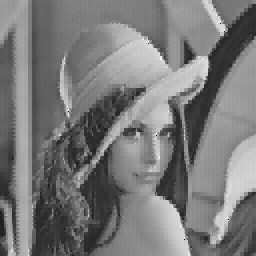
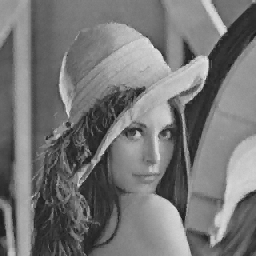
fixed a typo in fpimage.py, major improvement in software-encoded image quality
git-svn-id: http://bat-country.us/svn/caltech/cs81/Fracture@101 caa6fe2b-acd4-4b7c-8125-26c041977fbc

diff --git a/test/fpimage.py b/test/fpimage.py
@@ -5,6 +5,7 @@ import struct
 import sys
 import os
 import re
+import glob
 
 import numpy
 import Image
@@ -128,7 +129,7 @@ def avgReduce(A, times):
     
     return R
 
-def calcS(n, sum_D, sum_D2, sum_r, sum_rD):
+def calcSO(n, sum_D, sum_D2, sum_r, sum_r2, sum_rD):
     S_lo = n * sum_D2 + sum_D * sum_D
     # TODO: if abs(s_lo) is close to zero, special handling
     # see: Fisher, p. 21
@@ -136,70 +137,50 @@ def calcS(n, sum_D, sum_D2, sum_r, sum_rD):
     S = S_hi / S_lo
     # old 'cap' mode
     S = numpy.clip(S, -1 + 1E-4, 1 - 1E-4)
-    return S
-
-def calcO(n, sum_D, sum_r, S):
-    return (sum_r - S * sum_D) / n
-
-def calcMSE(n, sum_D, sum_D2, sum_r, sum_r2, sum_rD, S, O):
+    
+    O = (sum_r - S * sum_D) / n
+    
     SE = S * (S * sum_D2 + 2 * (O * sum_D - sum_rD)) \
         + O * (n * O - 2 * sum_r) \
         + sum_r2
-    return SE / n
-
-def calcMSEAlt(n, sum_D, sum_D2, sum_r, sum_r2, sum_rD, S, O):
-    # rearrange for speed
-    # see: Fisher, p. 21
-    SE = sum_r2 \
-        + S * S * sum_D2 \
-        + 2 * O * S * sum_D \
-        - 2 * S * sum_rD \
-        - 2 * O * sum_r \
-        + n * O * O
-    return SE / n
-
-def calcMSEAltSlow(r_size, n, r_tiled, D, S, O):
-    S_stretch = S.repeat(r_size, 0).repeat(r_size, 1)
-    O_stretch = O.repeat(r_size, 0).repeat(r_size, 1)
-    err = r_tiled - (S_stretch * D + O_stretch)
-    return avgReduce(err * err, log2int(r_size))
-
-def searchReduceCore(P1, P2):
-    R1 = numpy.empty((P1.shape[0] >> 1, P1.shape[1] >> 1, 3), numpy.dtype('f'))
-    R2 = numpy.empty((P2.shape[0] >> 1, P2.shape[1] >> 1, 3), numpy.dtype('f'))
+    MSE = SE / n
     
-    for j in xrange(R1.shape[0]):
-        for i in xrange(R1.shape[1]):
-            err,  s,  o  = P1[(j << 1),     (i << 1)]
-            _,    x,  y  = P2[(j << 1),     (i << 1)]
-            
-            err2, s2, o2 = P1[(j << 1) + 1, (i << 1)]
-            _,    x2, y2 = P2[(j << 1) + 1, (i << 1)]
-            if err2 < err:
-                err, s, o = (err2, s2, o2)
-                _,   x, y = (err2, x2, y2)
-            
-            err2, s2, o2 = P1[(j << 1),     (i << 1) + 1]
-            _,    x2, y2 = P2[(j << 1),     (i << 1) + 1]
-            if err2 < err:
-                err, s, o = (err2, s2, o2)
-                _,   x, y = (err2, x2, y2)
-            
-            err2, s2, o2 = P1[(j << 1) + 1, (i << 1) + 1]
-            _,    x2, y2 = P2[(j << 1) + 1, (i << 1) + 1]
-            if err2 < err:
-                err, s, o = (err2, s2, o2)
-                _,   x, y = (err2, x2, y2)
-            
-            R1[j, i] = (err2, s, o)
-            R2[j, i] = (err2, x, y)
-    
-    return (R1, R2)
+    return numpy.dstack((MSE, S, O))
 
-def searchReduce(P1, P2, times):
+def searchReduceCore(P):
+    R = numpy.empty((P.shape[0] >> 1, P.shape[1] >> 1, 5), numpy.dtype('f'))
+    
+    for j in xrange(R.shape[0]):
+        for i in xrange(R.shape[1]):
+            p  = P[(j << 1),     (i << 1)]
+            err = p[0]
+            
+            p2 = P[(j << 1) + 1, (i << 1)]
+            err2 = p2[0]
+            if err2 < err:
+                p = p2
+                err = err2
+            
+            p2 = P[(j << 1),     (i << 1) + 1]
+            err2 = p2[0]
+            if err2 < err:
+                p = p2
+                err = err2
+            
+            p2 = P[(j << 1) + 1, (i << 1) + 1]
+            err2 = p2[0]
+            if err2 < err:
+                p = p2
+                err = err2
+            
+            R[j, i] = p
+    
+    return R
+
+def searchReduce(P, times):
     for t in xrange(times):
-        P1, P2 = searchReduceCore(P1, P2)
-    return (P1, P2)
+        P = searchReduceCore(P)
+    return P
 
 def window(A, c, d):
     a = A.min()
@@ -237,15 +218,11 @@ def encode(filename, d_size, r_size):
             r_tiled = numpy.tile(r, (D.shape[0] / r_size, D.shape[1] / r_size))
             sum_rD = sumReduce(r_tiled * D, log2int(r_size))
             
-            S = calcS(n, sum_D, sum_D2, sum_R[j, i], sum_rD)
-            O = calcO(n, sum_D, sum_R[j, i], S)
-            MSE = calcMSE(n, sum_D, sum_D2, sum_R[j, i], sum_R2[j, i], sum_rD, S, O)
+            P_nocoords = calcSO(n, sum_D, sum_D2, sum_R[j, i], sum_R2[j, i], sum_rD)
             
-            P1 = numpy.dstack((MSE, S, O))
-            P2 = numpy.dstack((MSE, I, J))
-            P1, P2 = searchReduce(P1, P2, log2int(sum_D.shape[0]))
-            err, s, o = P1[0, 0]
-            _,   x, y = P2[0, 0]
+            P = numpy.dstack((P_nocoords, I, J))
+            P = searchReduce(P, log2int(sum_D.shape[0]))
+            err, s, o, x, y = P[0, 0]
             x = int(x)
             y = int(y)
             rs = [i * r_size, (i + 1) * r_size,
@@ -315,13 +292,33 @@ def decode(outputBasename, (orig_w, orig_h, d_size, r_size, transforms)):
         print "avg =", numpy.mean(R)
         writePILImage("%s_%02d.png" % (outputBasename, t), R)
         print
+    
+    #R = window(R, 0, 1)
+    #writePILImage("%s_enhanced.png" % outputBasename, R)
 
 def main():
-    #transformList = encode('../data/lena.png', 8, 4)
-    #saveTransformList('../build/Python-lena.trn', transformList)
-    transformList = loadTransformList('../data/Python-lena.trn')
+    transformList = encode('../data/lena.png', 8, 4)
+    saveTransformList('../build/Python-lena.trn', transformList)
+    #transformList = loadTransformList('../data/Python-lena.trn')
     decode('../build/Python-lena-out', transformList)
-    #transformList = loadTransformList('../data/OpenGL-lena.trn')
+    #transformList = loadTransformList('../build/OpenGL-lena.trn')
     #decode('../build/OpenGL-enc-Python-dec-lena-out', transformList)
+
+def checkCandidates():
+    
+    def toRecord(a):
+        MSE, s, o, packedOrigin = a
+        d_i = int(packedOrigin / 4096) / 2
+        d_j = int(packedOrigin % 4096) / 2
+        return MSE, s, o, d_i, d_j
+    
+    for filePath in glob.iglob('../build/candidates/*.fl32'):
+        r_i, r_j = [int(r) for r in re.search(r'\[(\d+), (\d+)\]', filePath).groups()]
+        img = readFL32Image(filePath)
+        candidates = [toRecord(a) for a in img.reshape((img.shape[0] * img.shape[1], img.shape[2]))]
+        candidates.sort(cmp=lambda a, b: cmp(a[0], b[0]))
+        for candidate in candidates:
+            print candidate
+        break
 
 main()

diff --git a/src/fracture.c b/src/fracture.c
@@ -335,6 +335,11 @@ int main(int argc, char** argv)
                 r_size * r_size, r_i, r_j,
                 originXMult);
             
+            char* dumpFileName;
+            asprintf(&dumpFileName, "candidates/rangeCandidates_T[%02d, %02d].fl32", r_i, r_j);
+            saveFloatTexture(cgl_ctx, rangeCandidates_T, dumpFileName);
+            free(dumpFileName);
+            
             texInfo* rangeTransform_T = searchReduce(cgl_ctx,
                 rangeCandidates_T,
                 log2int(rangeCandidates_T->aW));
